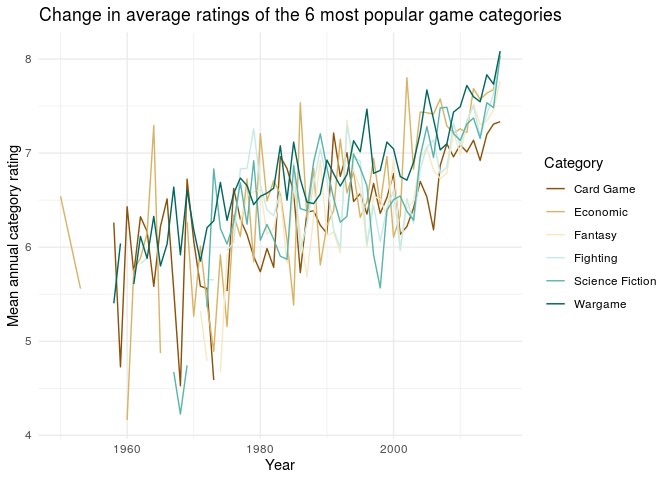
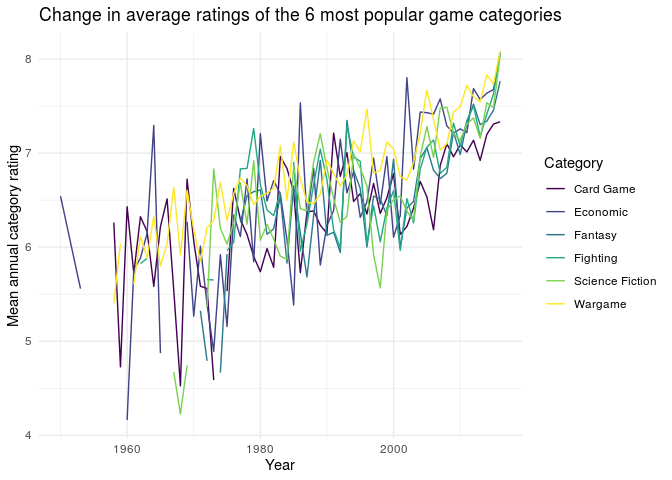
Add df as argument to av_annual_ratings() function, change colour scheme of plot

diff --git a/proposal/proposal.md b/proposal/proposal.md
@@ -126,14 +126,14 @@ sum of all ratings in a category (in a given year) divided by the total
 number of such ratings).
 
 ``` r
-av_annual_rating <- function(cat) {
-  board_games_topcats %>%
+av_annual_rating <- function(df, cat) { # finds average rating of a category (cat) of board game in dataframe given (df) for each year in which a board game of that category was published. Output is a dataframe. df must have columns `year published`, `categories` (a `list` of categories), `average_rating` and `year_published`
+  df %>%
   filter(map_lgl(categories, ~cat %in% .x)) %>% 
   group_by(year_published) %>% 
   summarise(av_annual_rating = sum(average_rating * users_rated) / sum(users_rated))
 }
 
-cats <- map(popular_categories, av_annual_rating)
+cats <- map(popular_categories, ~av_annual_rating(df = board_games_topcats, cat = .))
 
 cat_ratings <- reduce(cats, ~full_join(.x,.y, by = "year_published")) %>% 
   arrange(year_published)
@@ -150,7 +150,7 @@ cat_ratings %>%
     colour = "Category", 
     title = "Change in average ratings of the 6 most popular game categories"
   ) + 
-  scale_color_brewer(palette = "BrBG") + 
+  scale_color_viridis_d() +
   theme_minimal()
 ```
 
